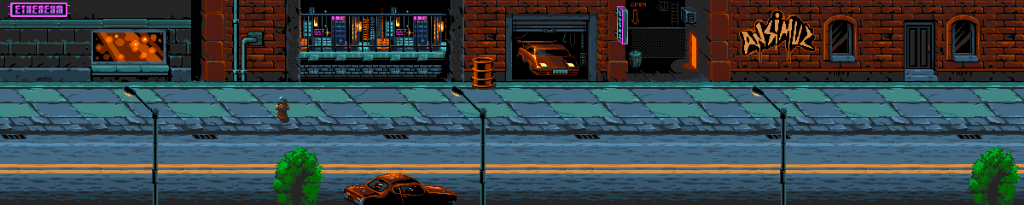
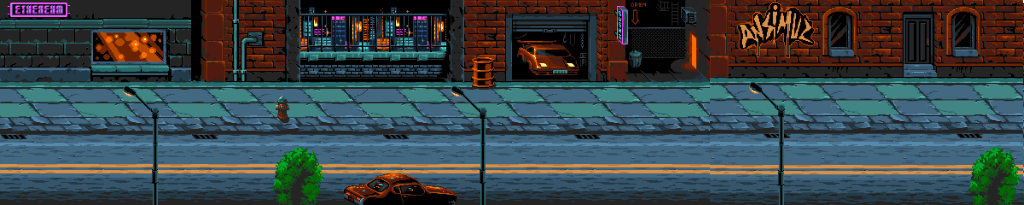
Background load (no touch)

Changed region(s): [[0.6875, 0.0, 1.0, 1.0]]

diff --git a/Project_IA/Main.cpp b/Project_IA/Main.cpp
@@ -16,9 +16,6 @@ int main()
     Menu menu;
     Background menubackground;
     Background gamebackground;
-    Background pausebackground;
-    Background endbackground;
-
 
 
     Player* player = new Player();
@@ -32,6 +29,7 @@ int main()
     sf::Vector2u windowSize = window.getSize();
     menu.setWindowSize(static_cast<float>(windowSize.x), static_cast<float>(windowSize.y));
     menubackground.setWindowSize(static_cast<float>(windowSize.x), static_cast<float>(windowSize.y));
+    gamebackground.setWindowSize(static_cast<float>(windowSize.x), static_cast<float>(windowSize.y));
 
 
 
@@ -188,7 +186,7 @@ int main()
         if (menu.getState() == GameState::PLAYING)
         {
             player->Update(deltaTime);
-            gamebackground.update();
+            menubackground.update();
         }
         else
         {
@@ -208,7 +206,7 @@ int main()
         else
         {
             // Mode menu : afficher background et menu
-            gamebackground.draw(window);
+            menubackground.draw(window);
             menu.draw(window);
         }
 
